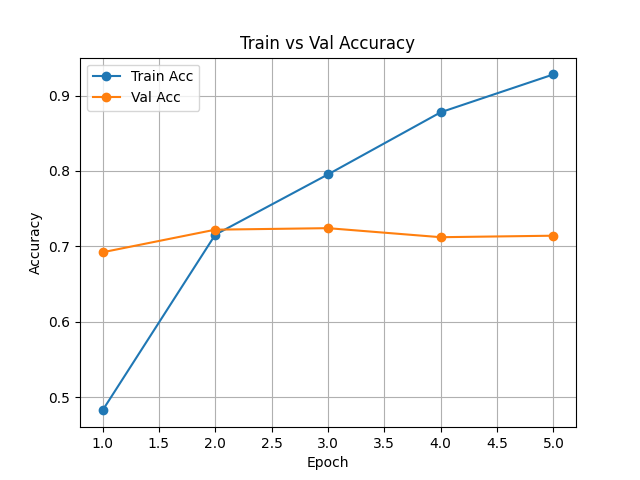
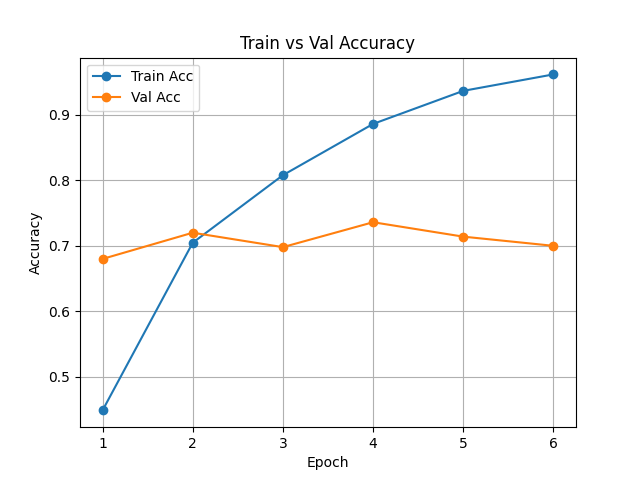
fine tuning deberta5000

diff --git a/RoBERT/fine_tuning_RoBERTa.py b/RoBERT/fine_tuning_RoBERTa.py
@@ -17,8 +17,8 @@ batch_size = 8
 lr = 2e-5
 patience = 2
 validation_ratio = 0.1
-save_path = "./best_roberta_model_3000"
-plot_path = "analyze_roberta_3000_16"
+save_path = "./best_roberta_model_5000"
+plot_path = "analyze_roberta_5000_16"
 
 # ====== 裝置檢查 ======
 device = torch.device("cuda" if torch.cuda.is_available() else "cpu")
@@ -30,7 +30,7 @@ model = AutoModelForSequenceClassification.from_pretrained(model_name, num_label
 model.to(device)
 
 # ====== 載入資料與分割 validation ======
-texts, labels = getData(3000)
+texts, labels = getData(5000)
 encodings = tokenizer(texts, truncation=True, padding=True, max_length=512, return_tensors='pt')
 labels_tensor = torch.tensor(labels)
 

diff --git a/upload_hugging_face.py b/upload_hugging_face.py
@@ -20,7 +20,8 @@ models = [
     ("bert_sentiment_10000", "./BERT/best_bert_model_10000"),
     ("bert_sentiment_30000", "./BERT/best_bert_model_30000"),
     ("bert_sentiment_50000", "./BERT/best_bert_model_50000"),
-    ("roberta_sentiment_30000", "./RoBERT/best_roberta_model_10000"),
+    ("roberta_sentiment_5000", "./RoBERT/best_roberta_model_5000"),
+    ("roberta_sentiment_10000", "./RoBERT/best_roberta_model_10000"),
     ("roberta_sentiment_30000", "./RoBERT/best_roberta_model_30000"),
     ("roberta_sentiment_50000", "./RoBERT/best_roberta_model_50000"),
     ("roberta_sentiment_100000", "./RoBERT/best_roberta_model_100000"),
